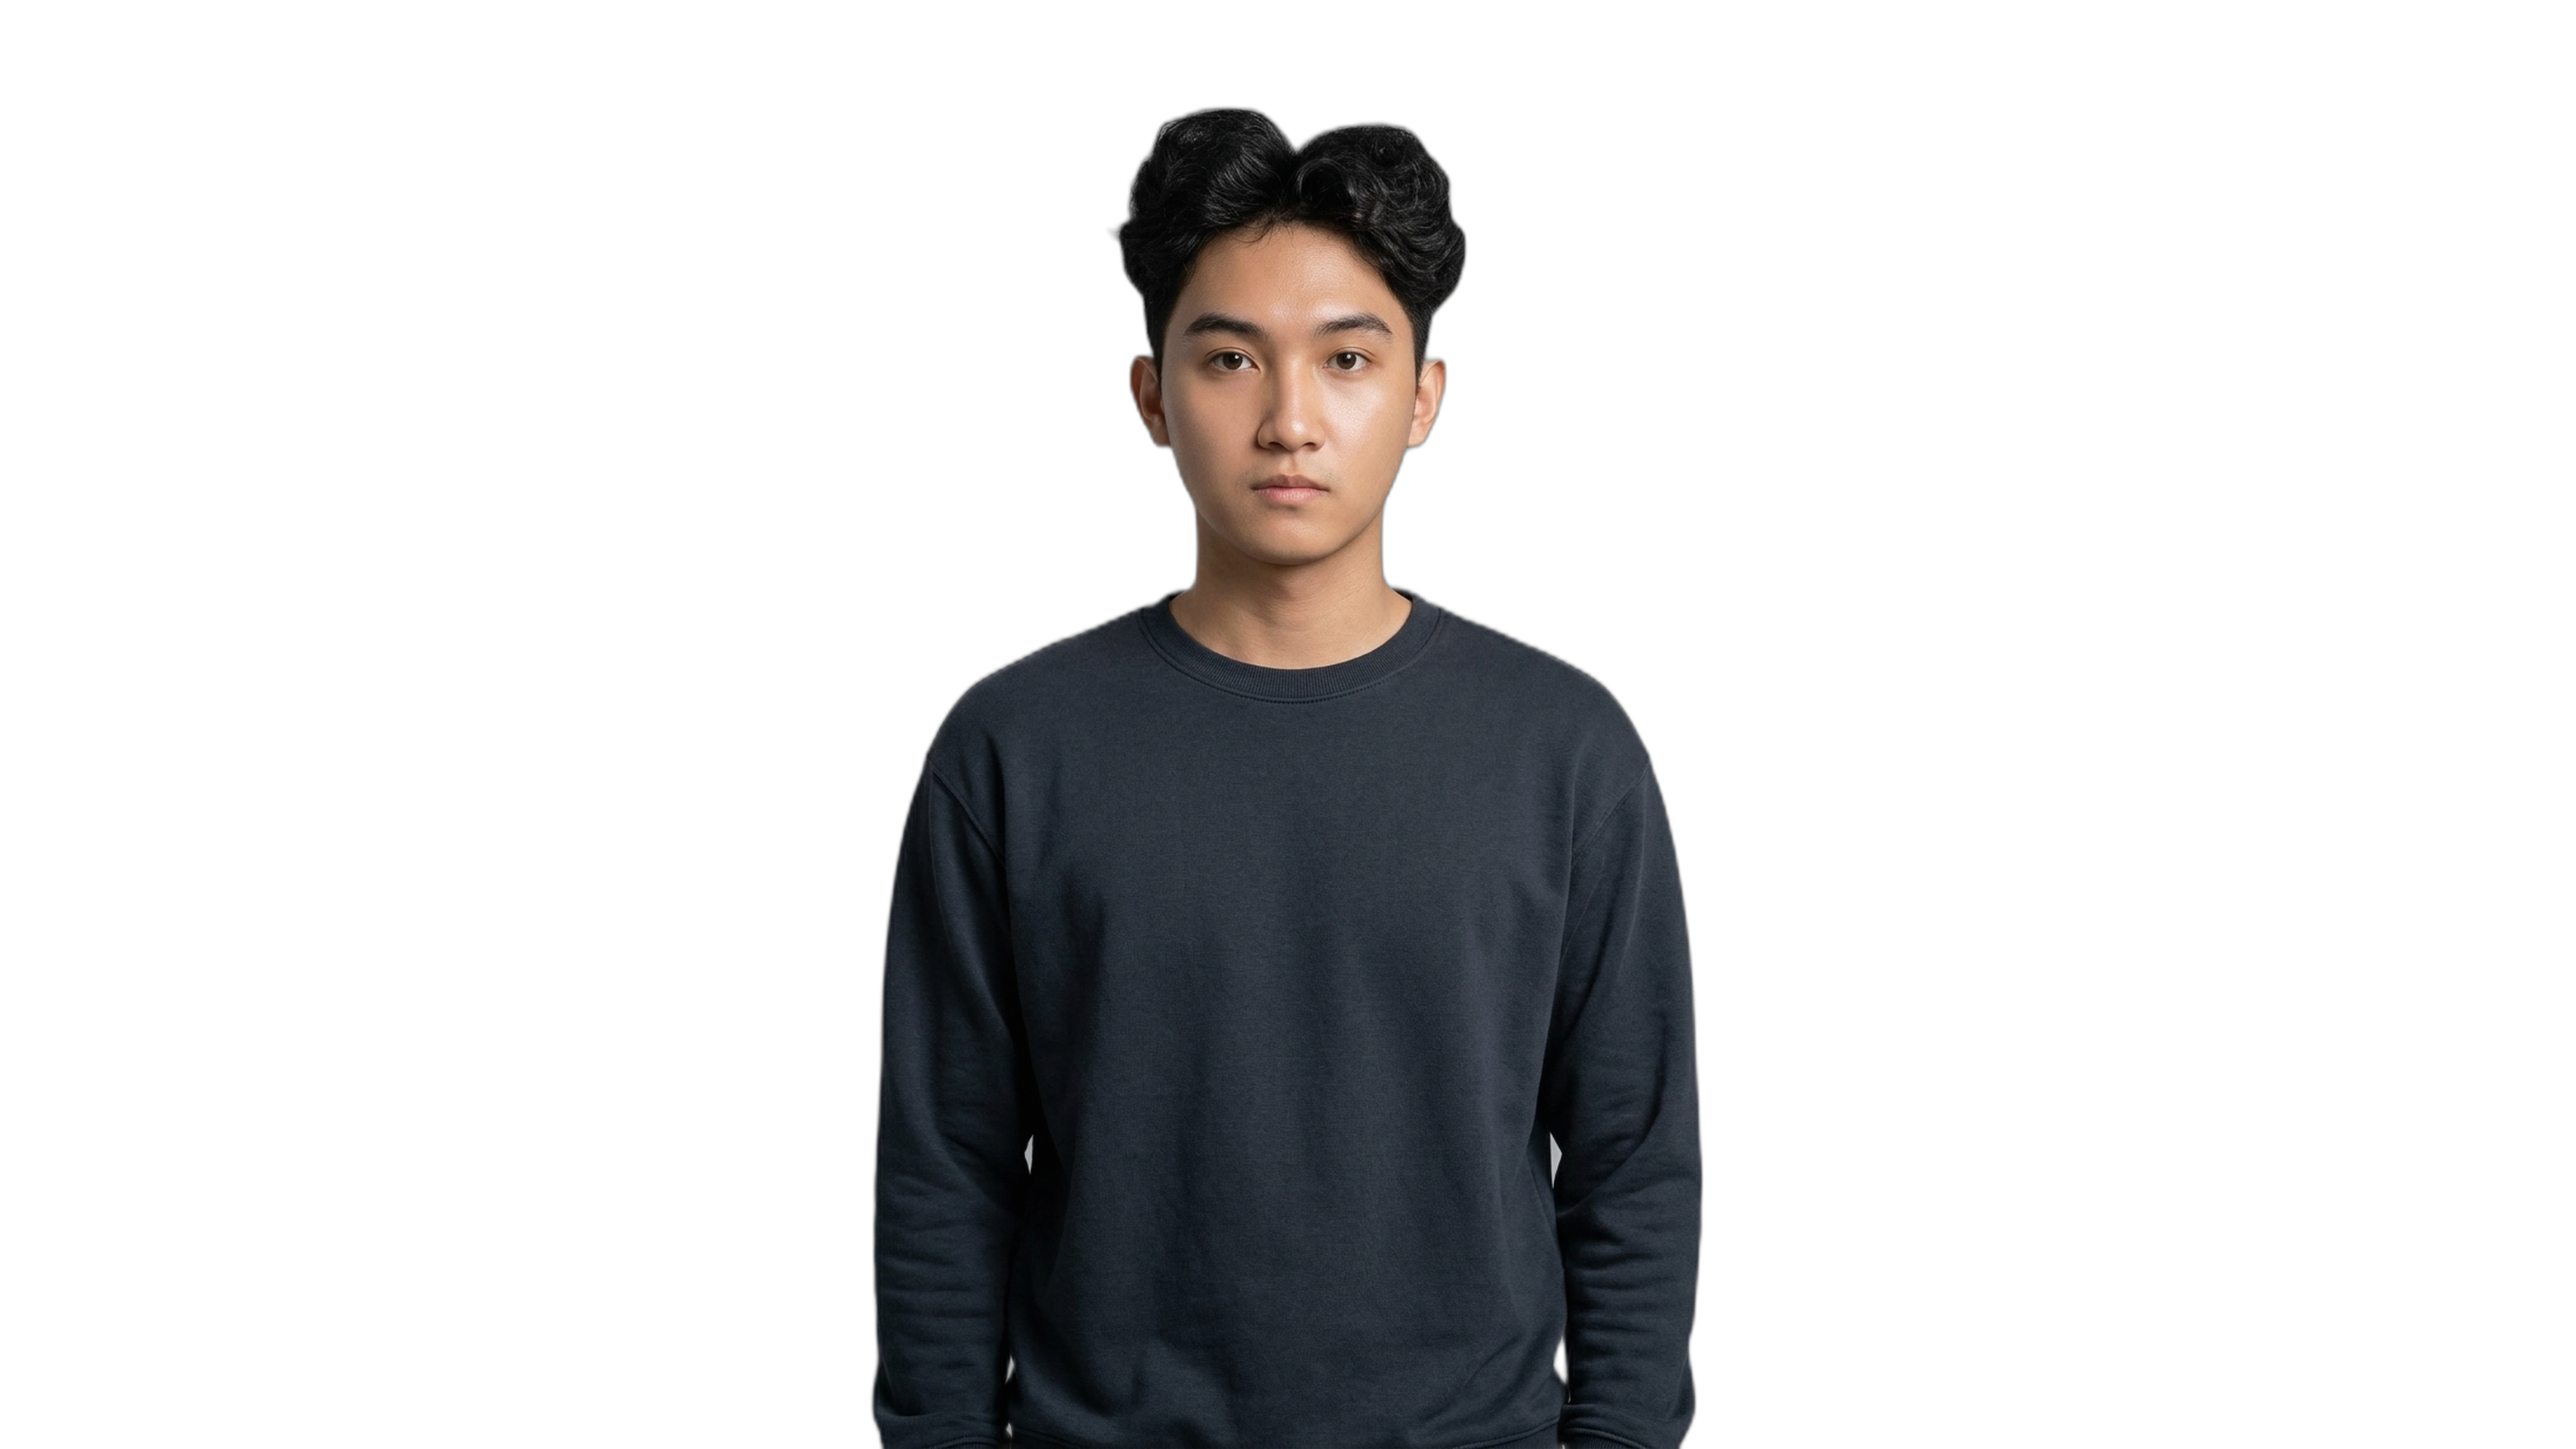
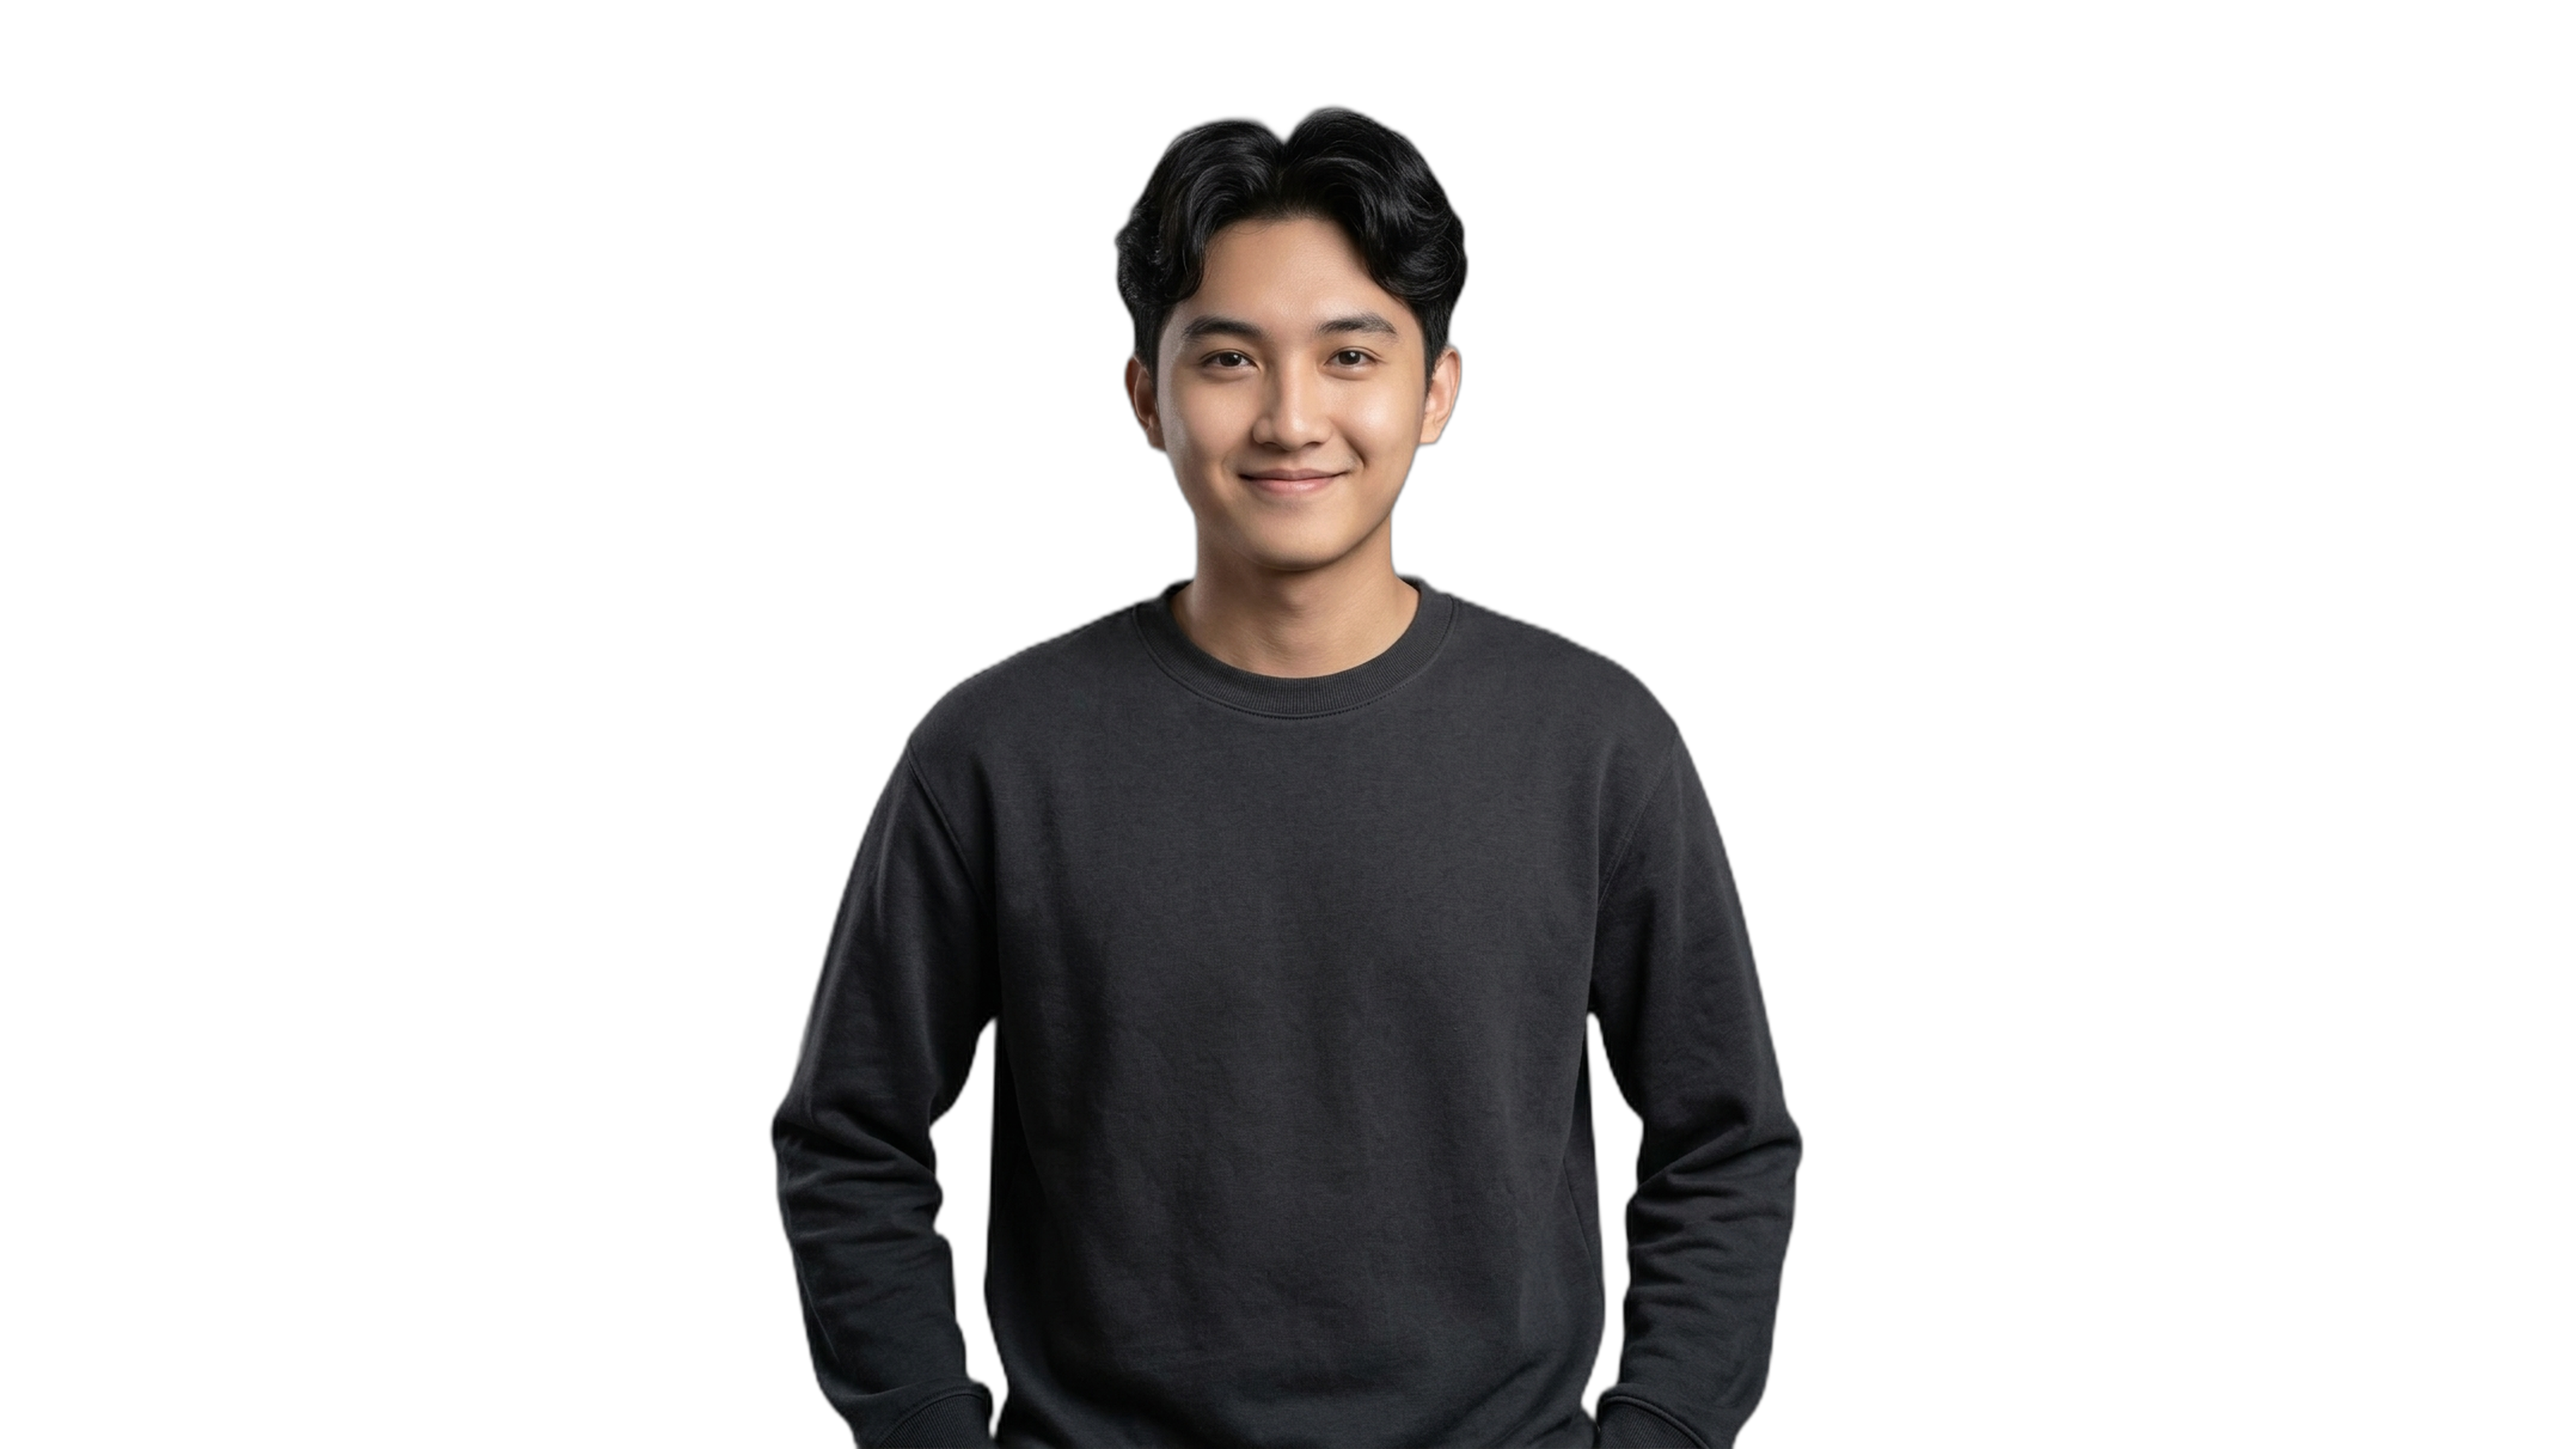
feat: add Personnel NTH project and update portrait with natural gentle smile

diff --git a/src/data/cvData.ts b/src/data/cvData.ts
@@ -58,6 +58,14 @@ export const cvData = {
       tags: ["Python", "Google Gemini", "Groq", "Chainlit", "Docker", "TMDB API", "Connection Pooling"],
     },
     {
+      name: "Personnel NTH — Quản Lý Nhân Sự Raid",
+      subtitle: "Raid Roster & Party Organizer — Web App Phân Chia Đội Hình Bang Hội",
+      description: "Ứng dụng web trực quan hỗ trợ trưởng nhóm (Raid Leader) và bang hội lập danh sách, phân chia đội hình đi Raid 12 người, tự động cân bằng vai trò (Tank / Healer / DPS), tùy chỉnh màu sắc 11 môn phái, đồng bộ Google Sheets 2 chiều, chế độ Dark Mode toàn diện và xuất ảnh HD / file Excel định dạng chuẩn.",
+      github: "https://github.com/HelloAIWorldM/Personnel_NTH",
+      badge: "Featured Web App",
+      tags: ["React 19", "TypeScript", "Tailwind CSS v4", "Firebase Auth", "Google Sheets API", "html2canvas", "Vite"],
+    },
+    {
       name: "HelloAIWorldM / -n",
       subtitle: "Dự án Khoa học dữ liệu & Xử lý số liệu",
       description: "Kho lưu trữ mã nguồn cho các bài toán phân tích dữ liệu, thuật toán máy học và thử nghiệm mô hình trí tuệ nhân tạo.",

diff --git a/src/components/Portrait.tsx b/src/components/Portrait.tsx
@@ -11,9 +11,9 @@ export const Portrait: React.FC = () => {
         loading="eager"
       />
 
-      {/* Front portrait cutout overlay of Trương Tấn Phát (Full arms, ultra-sharp), above marquee, z-20 */}
+      {/* Front portrait cutout overlay of Trương Tấn Phát (Full arms, gentle smile, ultra-sharp), above marquee, z-20 */}
       <img
-        src="/phat_full_arms_4k.png"
+        src="/phat_full_arms_4k.png?v=3"
         alt="Trương Tấn Phát"
         className="absolute inset-0 h-full w-full object-cover z-20 pointer-events-none anim-rise-in select-none"
         loading="eager"
